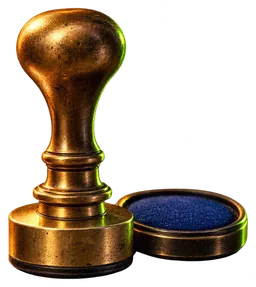
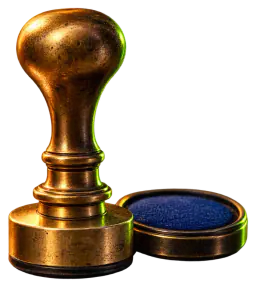
Landing fixer round 7: the critic-6 defects, from the round-7 WIP
Builds on WIP a7a63e8d (kept: one sample record in labStory.mjs with nextMove,
weakChapters and openedAt; the tour's Replay on Q7 and its blanks; the
Recovery replay opening on Q3; the Recovery Lab's one sentence against the
Mistake Lab; Ask Mobi as the product name; the type tokens; 44 px fitted
controls; "Pause demos"; the separate "Keep this" label; the verdict bands).

- High: "Also on this page" under the tour is tappable on phones. The held
  story's own positioned box (.ss), not only its track, painted over the
  paragraph after it; .ss[data-pinned] now takes no pointers (stage content
  still does). elementFromPoint hits each link at 35/55/75% of the window,
  and real clicks land on the Lab's Repair scene and on DU Compass.
- One next move everywhere: Lab SWOT, tour Ask Mobi and Recovery Plan all say
  "Practise 10 on Partnership" with the same rule; the unverifiable "same one
  the Today screen shows" claim is gone (Ask Mobi: "with the mocks behind it").
- One record: tour weak chapters print the Lab's counts (Partnership 3 of 10,
  Cash flow 9 of 14, Ratios 14 of 15); a test now holds SWOT, tour and plan
  together.
- Changed-answer moment told once: Recovery Find closes on a new line ("18 of
  the 28 marks went on Partnership: Q3, Q4 and Q8.") instead of repeating its
  own row; Plan's note no longer repeats its why.
- Type scale: H1 72/42, H2 48/32, close 64/36, statement stepped with the close
[…]

diff --git a/src/app/page.js b/src/app/page.js
@@ -50,7 +50,7 @@ import './landing-rest.css';
 
 const freePlan = newOfferReleased() ? ['One baseline per launch subject', 'One included daily 10-question set', 'One new recovery episode per week', 'Fresh checks for started episodes', '25 saved questions'] : [
   '100 practice credits to start: a Quick practice uses 10, a Full mock 50',
-  '10 Ask Mobi credits a month for questions beyond your own record',
+  '10 AI credits a month, for Ask Mobi beyond your own record',
   'Weekly progress tracking',
   '25 saved questions',
   'Leaderboard',
@@ -60,15 +60,14 @@ const proPlan = newOfferReleased() ? ['All available recovery pathways', 'Fresh 
   'Compass Pro: your practice mapped to your DU shortlist',
   'Smart practice and NTA mode',
   'Every chapter ranked, with pace and changed answers',
-  '50 Ask Mobi credits a month',
+  '50 AI credits a month',
   'Unlimited saved questions',
 ];
 
 const OFFER = publicOffer();
-// What Free gives, in one sentence that says no more than the Free list above does.
-const FREE_LINE = newOfferReleased()
-  ? 'Free gives you a baseline in each launch subject and a daily 10-question set, and keeps your progress.'
-  : 'Free gives you 100 practice credits and keeps your progress.';
+// What Free starts you with, said no bigger than the Free list below says it: 100 practice credits is two full
+// mocks, so the headline never calls practice itself free.
+const FREE_START = newOfferReleased() ? 'Start free with a daily 10-question set' : 'Start free with 100 practice credits';
 const SHOWCASE = buildCompassShowcase();
 const WALL_VOICES = publishedVoices();
 
@@ -124,7 +123,7 @@ const TOUR = [
     body: 'A score is just a number. MockMob traces every miss back to its chapter, so tonight’s session has a target. Pro adds pace and changed-answer detail for every chapter.',
     points: ['Your weakest chapters, free after every mock', 'Built only from questions you attempted'], chip: 'Your weakest chapters, free after every mock.', href: '/analytics', cta: 'See your weak chapters' },
   { id: 'prepos', label: 'Ask Mobi', line: 'Ask what to do tonight', title: 'Ask Mobi what to do tonight.',
-    body: 'Ask Mobi reads your practice record and answers with where the marks went and a single next step, the same one the app’s Today screen shows.',
+    body: 'Ask Mobi reads your practice record and answers with where the marks went and a single next step, with the mocks behind it.',
     points: ['Questions about your own record use no credits', 'Other questions use AI credits: 10 a month on Free, 50 on Pro', 'Answers come from your record, not a generic plan'], chip: 'Questions about your own record use no credits.', href: '/mentor', cta: 'Ask about your record' },
   { id: 'compass', label: 'DU Compass', line: 'Your shortlist against real DU cutoffs', title: 'Test your DU shortlist against real cutoffs.',
     body: 'Compare a score with published 2026 DU cutoffs by college, category and round, free. With Pro, Compass turns your practice into a paper-by-paper range for your shortlist.',
@@ -365,8 +364,8 @@ export default function LandingPage() {
         <section className="lp-sec" id="pricing">
           <div className="mm-wrap">
             <div className="lp-head lp-head--left">
-              <h2 className="lp-h2">{OFFER.purchasable === 'monthly' ? `Free to start, ₹${OFFER.monthly.rupees} a month for Pro.` : `Free to start, ₹${OFFER.oneTime.rupees} once for Pro.`}</h2>
-              <p className="lp-sub">{FREE_LINE} {OFFER.purchasable === 'monthly' ? 'Cancel Pro any month and keep what you paid for.' : 'Pro is one payment, not a subscription.'}</p>
+              <h2 className="lp-h2">{OFFER.purchasable === 'monthly' ? `${FREE_START}. ₹${OFFER.monthly.rupees} a month for Pro.` : `${FREE_START}. ₹${OFFER.oneTime.rupees} once for Pro.`}</h2>
+              <p className="lp-sub">Free keeps your record and your progress. {OFFER.purchasable === 'monthly' ? 'Cancel Pro any month and keep what you paid for.' : 'Pro is one payment, not a subscription.'}</p>
             </div>
             {/* Two plain columns split by one hairline. Pro is set apart by the size of its price, not a frame. Start free
                 keeps the volt key it has everywhere else on the page; See Pro is the secondary key. */}

diff --git a/src/components/landing/MistakeLab.jsx b/src/components/landing/MistakeLab.jsx
@@ -16,7 +16,7 @@ import { pipReact } from '@/components/brand/pipEvents';
 import { useReadableRegion } from './useReadableRegion';
 import ScrollStory from './ScrollStory';
 import { durations } from '@/lib/motion/tokens.g.js';
-import { SESSION as STORY, MARK as MARKS, PAPER_PACE_SEC, clock, marksLedger, nextMove } from './labStory.mjs';
+import { SESSION as STORY, MARK as MARKS, PAPER_PACE_SEC, chapterRecord, clock, marksLedger, nextMove } from './labStory.mjs';
 
 // The story's rows in the replay's terms ('skip' for a blank), with the clock times of every change.
 const SESSION = STORY.map((r) => ({
@@ -33,6 +33,9 @@ const PACE = clock(PAPER_PACE_SEC);
 const LEDGER = marksLedger();
 // The sample student's one next move, the same one the Lab's SWOT puts first and the tour's Ask Mobi gives.
 const MOVE = nextMove();
+// The Find step's closing line: where the missed marks gather, by chapter. The rows above it already say how each
+// question was lost, so this line adds the chapter that the next move then takes on.
+const MOVE_LOST = chapterRecord(MOVE.chapter);
 // The replay opens on Q3, wrong from its first pick: the Lab above already walked through the changed answers.
 const FIRST_PICK = STORY.findIndex((r) => r.verdict === 'wrong' && !r.change);
 const qList = (qs) => (qs.length > 1 ? `${qs.slice(0, -1).map((n) => `Q${n}`).join(', ')} and Q${qs.at(-1)}` : `Q${qs[0]}`);
@@ -85,7 +88,7 @@ const STRIP = {
 function SessionStrip({ kind }) {
   const { label, lit } = STRIP[kind];
   return (
-    <div className="ml__strip" aria-hidden="true">
+    <div className="ml__strip" data-kind={kind} aria-hidden="true">
       <p>{label}</p>
       <ol>
         {SESSION.map((t) => (
@@ -277,7 +280,7 @@ function LabStage({ recoveryState, timeline, setTimeline, pinned, goTo: storyGoT
                 </li>
               ))}
             </ul>
-            <p className="ml__headline">{LEDGER.headline}</p>
+            <p className="ml__headline">{MOVE_LOST.lost} of the {LEDGER.gap} marks went on {MOVE.chapter}: {qList(MOVE_LOST.qs)}.</p>
             <SessionStrip kind="leak" />
           </section>
 
@@ -289,7 +292,7 @@ function LabStage({ recoveryState, timeline, setTimeline, pinned, goTo: storyGoT
               <p className="ml__why">Why this: {MOVE.why}</p>
               <p className="ml__where">While you practise: {MOVE.rule.charAt(0).toLowerCase() + MOVE.rule.slice(1)}</p>
             </div>
-            <p className="ml__note">From your last {MOVE.lost.length} Accountancy mocks. Each mock you finish makes the next move sharper.</p>
+            <p className="ml__note">Each mock you finish makes the next move sharper.</p>
             <SessionStrip kind="move" />
           </section>
 

diff --git a/src/app/feature-tour.css b/src/app/feature-tour.css
@@ -11,7 +11,7 @@
    hidden, never shown as stray letters. An edge with nothing beyond it is not masked. */
 .ft__list { scroll-padding-inline: 24px; --ft-cut-l: 0px; --ft-cut-r: 0px; -webkit-mask-image: linear-gradient(90deg, transparent max(0px, calc(var(--ft-cut-l) - 8px)), #000 var(--ft-cut-l), #000 calc(100% - var(--ft-cut-r)), transparent calc(100% - var(--ft-cut-r) + 8px)); mask-image: linear-gradient(90deg, transparent max(0px, calc(var(--ft-cut-l) - 8px)), #000 var(--ft-cut-l), #000 calc(100% - var(--ft-cut-r)), transparent calc(100% - var(--ft-cut-r) + 8px)); }
 .ft__list li { flex: 0 0 auto; }
-.ft__row { position: relative; display: flex; align-items: center; min-height: 44px; padding: 0 0 0.25rem; border: 0; background: transparent; color: var(--ink-3); font: 600 var(--t-label, 0.875rem)/1.2 var(--font-body); white-space: nowrap; cursor: pointer; transition: color 150ms ease; }
+.ft__row { position: relative; display: flex; align-items: center; justify-content: center; min-width: 44px; min-height: 44px; padding: 0 0 0.25rem; border: 0; background: transparent; color: var(--ink-3); font: 600 var(--t-label, 0.875rem)/1.2 var(--font-body); white-space: nowrap; cursor: pointer; transition: color 150ms ease; }
 .ft__row[data-on='true'] { color: var(--ink); }
 .ft__rule { position: absolute; left: 0; right: 0; bottom: 0; display: block; height: 2px; overflow: hidden; background: var(--line); }
 .ft__rule[data-done='true'] { background: var(--accent-text, #607400); }
@@ -155,7 +155,10 @@
   .ft-story[data-pinned='true'] .ft__stage { flex: 1 0 auto; display: flex; flex-direction: column; }
   .ft-story[data-pinned='true'] .ft__track { flex: 1 0 auto; }
   .ft-story[data-pinned='true'] .ft__card { grid-template-rows: minmax(auto, 1fr) auto; }
-  .ft-story[data-pinned='true'] .ft__media { padding-bottom: var(--sp-2, 0.5rem); }
+  /* Every tool's screen fills the well from its top edge, so the device's top and its frame stay put as the
+     tools change (a screen shorter than the tallest keeps its spare room inside the device, under its content). */
+  .ft-story[data-pinned='true'] .ft__media { align-items: stretch; padding-bottom: var(--sp-2, 0.5rem); }
+  .ft-story[data-pinned='true'] .ft__shot { display: grid; }
   .ft-story[data-pinned='true'] .ft__copy { gap: var(--sp-2, 0.5rem); padding-top: var(--sp-3, 0.75rem); }
 }
 @media (min-width: 900px) {

diff --git a/src/app/landing.css b/src/app/landing.css
@@ -46,7 +46,8 @@
      --t-hero      42 -> 72   800  the hero h1 only, the page's largest words (56 and 64 between)
      --t-close     36 -> 64   800  the close line, one step under the h1 at every width
      --t-display   40 -> 64   800  the Pro price
-     --t-headline  32 -> 48   800  every section h2, a clear step under the h1 (40 between; the statement runs to 64)
+     --t-headline  32 -> 48   800  every section h2, a clear step under the h1 (40 between)
+     --t-statement 32 -> 64   600  the statement after the hero: the h2 size on phones, the close's size wider
      --t-step      22 -> 32   800  the title of a held story's step: the Lab's scenes and the tour's tools (28 between)
      --t-title     22 -> 30   700  other h3s: plan names, row names (26 between)
    Sizes step at 761 and 1100 px, never fluid, so no heading lands on a fractional size.
@@ -62,7 +63,7 @@
   --t-close: 2.25rem; /* 36, then 48, 56 and 64 px: always one step under --t-hero */
   --t-display: 2.5rem; /* 40, then 56 and 64 px: scale steps, never a fluid size (see below) */
   --t-headline: 2rem; /* 32, then 40 and 48 px */
-  --t-statement: clamp(2rem, 1.1rem + 3.6vw, 4rem);
+  --t-statement: var(--t-headline); /* phones: the h2 size; wider, the close's size (below): one display role */
   --t-step: 1.375rem; /* 22, then 28 and 32 px */
   --t-title: 1.375rem; /* 22, then 26 and 30 px */
   --t-lede: clamp(1.125rem, 1.05rem + 0.3vw, 1.25rem);
@@ -108,7 +109,7 @@
 /* Phones: 64 px above a section and 72 below (was 80 and 88), so a section's end and the next heading are one
    short band apart, not 170 px of empty page after every held story and block. */
 @media (max-width: 599px) { .mm.lp { --sec-top: 4rem; } }
-@media (min-width: 761px) { .mm.lp { --t-hero: 3.5rem; --t-close: 3rem; --t-display: 3.5rem; --t-headline: 2.5rem; --t-step: 1.75rem; --t-title: 1.625rem; } }
+@media (min-width: 761px) { .mm.lp { --t-hero: 3.5rem; --t-close: 3rem; --t-statement: var(--t-close); --t-display: 3.5rem; --t-headline: 2.5rem; --t-step: 1.75rem; --t-title: 1.625rem; } }
 @media (min-width: 1100px) { .mm.lp { --t-headline: 3rem; --t-step: 2rem; --t-title: 1.875rem; } }
 /* The hero's last two steps need the height to keep its keys on the first screen; the close follows the hero. */
 @media (min-width: 1100px) and (min-height: 700px) { .mm.lp { --t-hero: 4rem; --t-close: 3.5rem; } }

diff --git a/src/app/mistake-lab.css b/src/app/mistake-lab.css
@@ -160,6 +160,18 @@ html[data-theme='light'] .ml__stage { box-shadow: 0 20px 40px -24px rgba(32, 26,
      instead of leaving an empty band under a shorter step. */
   .ml__panel { padding: 1rem; display: flex; flex-direction: column; }
   .ml__panel > :last-child { margin-top: auto; }
+  /* Plan and Check are shorter than Find (the tallest step, which sets the device's height), so on phones they show
+     the session strip too, in a compact row: the chapter the move works on, then the questions the checks come back
+     to. It sits on the device's bottom edge in the room those steps leave, instead of an empty band. */
+  .ml__strip:is([data-kind='move'], [data-kind='check']) { display: grid; gap: 0.35rem; padding-top: 0.6rem; }
+  .ml__strip ol { gap: 0.25rem; }
+  .ml__strip li { display: flex; align-items: center; justify-content: center; gap: 1px; height: 1.75rem; border-radius: 7px; }
+  .ml__strip li span { position: static; }
+  .ml__strip li svg { width: 11px; height: 11px; flex: none; }
+  /* Check's rows sit a little closer and Replay's tiles stand a little taller, so all four steps come out near the
+     height of Find and none leaves a void inside the device. */
+  .ml__checks li { padding: 0.6rem 0; }
+  .ml__tile { aspect-ratio: 1 / 1.2; }
   .ml__tiles { grid-template-columns: repeat(auto-fit, minmax(max(16%, 2.75rem), 1fr)); }
   .ml__bar-top { padding: .8rem 1rem; }
 }

diff --git a/src/app/scroll-story.css b/src/app/scroll-story.css
@@ -34,9 +34,11 @@
 }
 /* The stage's empty bands never catch a tap meant for the page around it (the slack margins below
    let the next section slide under them); the content itself takes pointers as usual. */
-/* The track is taller than its stage, and on phones the page after a short story slides up under the track's
-   foot (the negative slack margins below). The track paints over that page, so it takes no pointers either:
-   only the stage's content does. */
+/* The story is positioned and taller than its content, and on phones the page after a short story slides up
+   under its foot (the negative slack margins below). Positioned boxes paint over the plain page that follows, so
+   the story's own box and its track take no pointers either: only the stage's content does, and a link in the
+   paragraph after a story (the tour's "Also on this page") takes a tap wherever it sits in the window. */
+.ss[data-pinned='true'],
 .ss[data-pinned='true'] .ss__track,
 .ss[data-pinned='true'] .ss__stage { pointer-events: none; }
 .ss[data-pinned='true'] .ss__stage > * { pointer-events: auto; }

diff --git a/src/app/hero-v3.css b/src/app/hero-v3.css
@@ -56,6 +56,8 @@
 .mm.lp .lp-hero--v3 .lp-title {
   margin: 0;
   font-size: clamp(2rem, min(var(--t-hero), 12cqi), var(--t-hero));
+  /* Whole pixels where round() exists, so a narrow phone never lands on a fractional size. */
+  font-size: clamp(2rem, round(down, min(var(--t-hero), 12cqi), 1px), var(--t-hero));
   font-weight: 800;
   line-height: 0.95;
   letter-spacing: -0.04em;
@@ -138,6 +140,12 @@
 @media (min-width: 761px) {
   .mm.lp .lp-hero--v3 .lp-keys { grid-template-columns: repeat(2, max-content); gap: 0.9rem; }
   .mm.lp .lp-hero--v3 .lp-key { min-width: 12.5rem; min-height: 58px; padding-inline: 1.75rem; }
+}
+/* Wide screens show the finished sample beside the keys, and its card offers the next subject itself: the second
+   key steps aside so that action is on screen once. */
+@media (min-width: 960px) {
+  .mm.lp .lp-hero--v3 .lp-keys[data-sample='done'] { grid-template-columns: max-content; }
+  .mm.lp .lp-hero--v3 .lp-keys[data-sample='done'] .lp-key--try { display: none; }
 }
 .mm.lp .lp-hero--v3 .lp-key--go {
   background: var(--volt);

diff --git a/src/components/landing/HeroKeys.jsx b/src/components/landing/HeroKeys.jsx
@@ -20,10 +20,11 @@ export function HeroKeys() {
     );
   }
 
-  // Once the sample is finished its card offers another subject itself, so this key only leads back to it.
+  // Once the sample is finished its card offers another subject itself, so this key only leads back to it. On wide
+  // screens the finished card sits right beside the keys, so the key steps aside there (hero-v3.css, data-sample).
   const tryText = sample.done ? 'Back to the sample' : sample.answered > 0 ? 'Back to your questions' : 'Try 5 questions';
   return (
-    <div className="mm-actions lp-keys" data-visitor={kind}>
+    <div className="mm-actions lp-keys" data-visitor={kind} data-sample={sample.done ? 'done' : undefined}>
       <Link href={signupHref} className="mm-btn mm-btn--primary lp-key lp-key--go">Start free</Link>
       {/* The sample is on this page: an in-page jump (DemoJump glides to it) never needs the route prefetched. */}
       <Link href="/#try-practice" prefetch={false} className="mm-btn mm-btn--secondary lp-key lp-key--try">{tryText}</Link>

diff --git a/src/components/landing/FeatureTour.jsx b/src/components/landing/FeatureTour.jsx
@@ -18,7 +18,7 @@ const LEDE = {
   learn: 'Short lessons with worked examples, then recall cards that come back before you forget.',
   replay: 'Every changed answer, every slow question and every skip, in the order it happened.',
   radar: 'Every miss traced back to its chapter, so tonight has one clear target.',
-  prepos: 'Ask about your own record and get one next step, the same one the app’s Today screen shows.',
+  prepos: 'Ask about your own record and get one next step, with the mocks behind it.',
   compass: 'Your score against the published 2026 DU cutoffs, by college, category and round.',
   combo: 'Pick your DU goals and see which five-paper combinations the 2026 rules keep open.',
   rival: 'A short timed run against a fixed target for accuracy and pace.',

diff --git a/src/app/hero-depth.css b/src/app/hero-depth.css
@@ -123,7 +123,7 @@
       align-content: center;
       gap: clamp(1rem, 3svh, 1.75rem);
     }
-    :root:not([data-motion='reduced']) .lp-statement__text { font-size: min(var(--t-headline), 3.9svh); }
+    :root:not([data-motion='reduced']) .lp-statement__text { font-size: min(var(--t-headline), 3.9svh); font-size: round(down, min(var(--t-headline), 3.9svh), 1px); }
     /* 21 words over 0 to 88% of the hold. */
     :root:not([data-motion='reduced']) .lp-statement__w {
       animation-range-start: contain calc(var(--p) * 80%);

diff --git a/src/components/landing/DemoDrill.jsx b/src/components/landing/DemoDrill.jsx
@@ -292,7 +292,7 @@ export function DemoDrill() {
             {score >= 4
               ? 'A full mock is 50 of these in 60 minutes.'
               : score >= 2
-                ? 'Part of this held. A full mock shows which chapters to fix first.'
+                ? `${score} of ${set.length} is a start. A full mock of 50 shows which chapters to fix first.`
                 : 'Five questions are a small sample. A full mock of 50 shows which chapters to fix first.'}
           </p>
 
